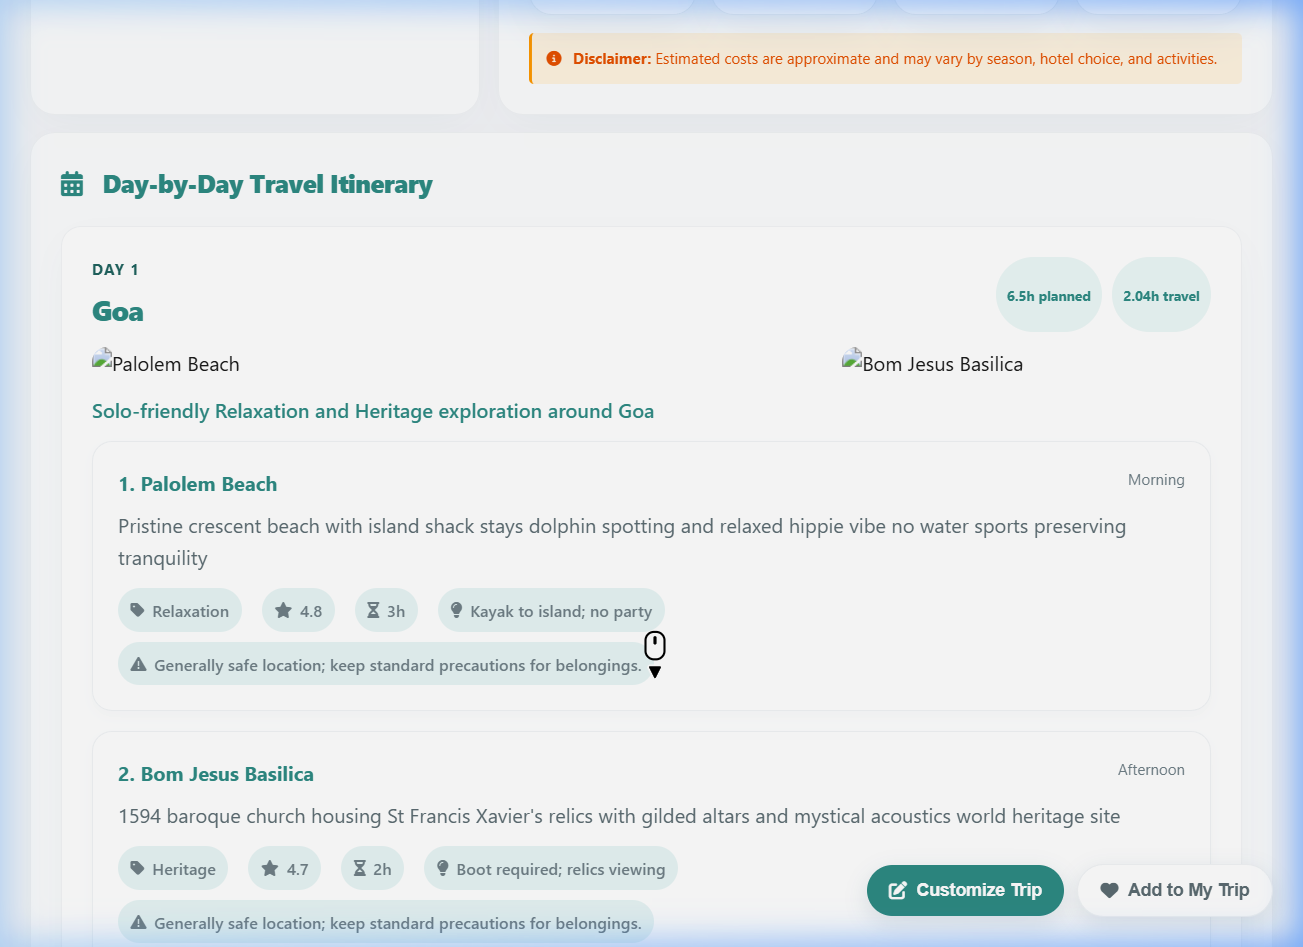
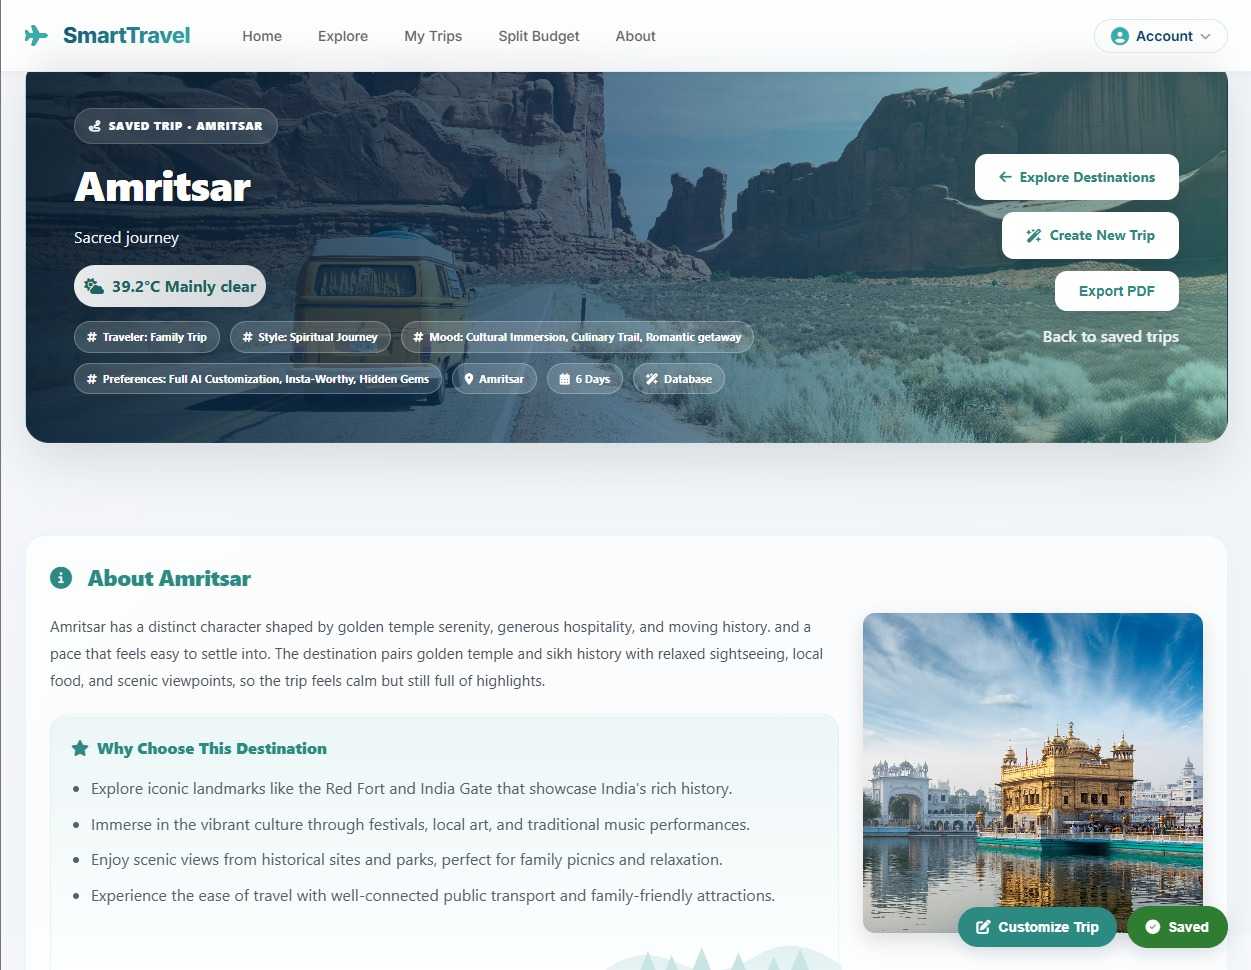
docs: finalize README.md structure matching 9 requested sections and add live itinerary screenshot

diff --git a/README.md b/README.md
@@ -10,7 +10,48 @@ SmartTravel is a full-stack, AI-powered travel planning web application built sp
 
 ---
 
-## Application Interface Screenshots
+## Project Overview
+
+SmartTravel is designed to simplify the complex process of planning multi-day trips. By combining a curated offline dataset of Indian tourist attractions with real-time generative language models, the application constructs personalized itineraries customized to user budget comfort levels, timeline constraints, travel styles, and mood preferences. 
+
+The application architecture prioritizes reliability by utilizing a local database fallback engine that dynamically clusters nearby locations using geocoordinates if external services time out or are unconfigured. The platform also offers secure session authentication and companion budget tools, resolving all core aspects of trip organization in a single dashboard.
+
+---
+
+## Features
+
+*   **Dual-Engine Travel Planner:** Generates multi-day travel plans using generative AI. If the external AI service is unavailable or key credentials are not provided, it seamlessly activates a deterministic, proximity-based fallback clustering algorithm that groups local destinations geographically.
+*   **Secure Session Authentication:** Stateful, secure cookie-based login (JSESSIONID) with BCrypt password hashing.
+*   **My Trips Dashboard:** Saves and manages customized itineraries dynamically tied to user profiles.
+*   **Companion Split-Expense Calculator:** Built-in companion budgeting system to record expenses and dynamically compute split shares.
+*   **Live Weather & Destination Insights:** Integrated weather profiles, photography spots, local tips, and nearest connectivity nodes (airports, railways).
+*   **Interactive Maps Integration:** Renders map locations using destination coordinates.
+
+---
+
+## Tech Stack
+
+| Component | Technology | Description |
+|---|---|---|
+| **Frontend** | Vanilla HTML5 / CSS3 / ES6 JavaScript | Responsive user interface utilizing custom design tokens, CSS grids, and smooth micro-animations. |
+| **Backend** | Spring Boot 3.x, Java 17 | REST controller mappings, JPA transactions, security authorization filters, and core planner pipelines. |
+| **Database** | MySQL 8+ / Hibernate JPA | Transactional schemas for profiles, budget sheets, expense logs, and places. |
+| **AI Integration** | OpenRouter API / OkHttp client | Prompt engineering templates connecting to gpt-4o-mini for structured itinerary outputs. |
+| **Data Processing** | Python, Commons CSV | Importer loaders to parse and seed dataset values into database schemas. |
+
+---
+
+## Architecture
+
+SmartTravel follows a standard 3-Tier Architecture that enforces clean separation of concerns between client views, logical controllers/services, and databases.
+
+### 3-Tier System Architecture Flow
+Defines the connection paths between client presentation layer, Spring Boot logic layer, MySQL storage, and external OpenRouter API:
+![System Architecture Flow](docs/diagrams/svg/system_architecture.svg)
+
+---
+
+## Screenshots
 
 ### Homepage Dashboard
 Defines the landing dashboard where travelers can register, authenticate, and explore custom recommendations.
@@ -30,18 +71,7 @@ Displays the detailed daily schedule containing curated spots, tips, duration su
 
 ---
 
-## Key Features
-
-*   **Dual-Engine Travel Planner:** Generates multi-day travel plans using generative AI. If the external AI service is unavailable or key credentials are not provided, it seamlessly activates a deterministic, proximity-based fallback clustering algorithm that groups local destinations geographically.
-*   **Secure Session Authentication:** Stateful, secure cookie-based login (JSESSIONID) with BCrypt password hashing.
-*   **My Trips Dashboard:** Saves and manages customized itineraries dynamically tied to user profiles.
-*   **Companion Split-Expense Calculator:** Built-in companion budgeting system to record expenses and dynamically compute split shares.
-*   **Live Weather & Destination Insights:** Integrated weather profiles, photography spots, local tips, and nearest connectivity nodes (airports, railways).
-*   **Interactive Maps Integration:** Renders map locations using destination coordinates.
-
----
-
-## Project Directory Tree
+## Project Structure
 
 Below is the repository directory structure showing the organization of both frontend, backend, dataset seeding tools, and system documentation:
 
@@ -67,98 +97,70 @@ SmartTravel/
 
 ---
 
-## System Architecture
+## Setup Instructions
 
-SmartTravel follows a standard 3-Tier Architecture that enforces clean separation of concerns between client views, logical controllers/services, and databases.
+### 1. Configure MySQL Schema
+Start the local MySQL database instance, open your SQL client, and create the schema:
+```sql
+CREATE DATABASE smart_travel CHARACTER SET utf8mb4 COLLATE utf8mb4_unicode_ci;
+```
 
-### 3-Tier System Architecture Flow
-Defines the connection paths between client presentation layer, Spring Boot logic layer, MySQL storage, and external OpenRouter API:
-![System Architecture Flow](docs/diagrams/svg/system_architecture.svg)
-
----
-
-## Visual Workflows and System Specifications
-
-All diagram models are pre-rendered in clean default themes and placed directly under docs/diagrams/svg/ to document system operations:
-
-### SRS Use Case Model
-Represents the Traveler actor interaction options and access parameters inside the platform:
-![SRS Use Case Model](docs/diagrams/svg/use_case.svg)
-
-### Itinerary Planning Workflow
-Outlines the logic from user preferences selection down to RAG database candidate retrieval and AI generation fallback:
-![Itinerary Planning Activity Flow](docs/diagrams/svg/activity.svg)
-
-### Session Authentication Sequence
-Details the stateful credentials verification loop and session cookie validation checks:
-![Session Authentication Sequence](docs/diagrams/svg/authentication_flow.svg)
-
-### RAG Itinerary Call Flow
-Details the client REST query, database filter steps, OpenRouter RAG context enrichment, and payload return sequence:
-![RAG Itinerary Sequence](docs/diagrams/svg/api_flow.svg)
-
-### Core JPA Entity Class Model
-Specifies database entities mappings, variables attributes, collection elements mapping, and relationships:
-![Core JPA Entity Class Model](docs/diagrams/svg/class_diagram.svg)
-
----
-
-## Technology Stack
-
-| Component | Technology | Description |
-|---|---|---|
-| **Frontend** | Vanilla HTML5 / CSS3 / ES6 Javascript | Clean, modern user interface utilizing HSL tailored colors, responsive CSS grids, and smooth micro-animations. |
-| **Backend** | Spring Boot 3.x, Java 17 | Core web controllers, REST APIs, JPA mapping, and service layers. |
-| **Database** | MySQL 8+ / Hibernate JPA | Relational tables mapping places, user sessions, saved trips, and group budgets. |
-| **AI Integration** | OpenRouter API / OkHttp client | Integrates with generative models (e.g. gpt-4o-mini) using structured JSON templates. |
-| **Data Processing** | Python, Commons CSV | Pre-processing scripts and loader tools to ingest dataset profiles. |
-
----
-
-## Quick Start Guide
-
-### 1. Prerequisites
-*   Java Development Kit (JDK) 17 or higher
-*   Maven 3.x (or use the included wrapper ./mvnw)
-*   MySQL Server 8.x
-*   Python 3.x (for database seeding)
-
-### 2. Configure Database & Environment
-1.  Log into your MySQL terminal and create the schema:
-    ```sql
-    CREATE DATABASE smart_travel;
-    ```
-2.  Copy the example environment file and fill in your values:
-    ```bash
-    cp .env.example .env
-    ```
-    Configure the following keys:
-    ```env
-    OPENROUTER_API_KEY=your_api_key
-    MYSQL_DATABASE=smart_travel
-    MYSQL_USERNAME=root
-    MYSQL_PASSWORD=your_password
-    ```
-
-### 3. Seed the Database
-Run the Python CSV importer script to populate the local destinations database with the curated Indian dataset containing tourist places:
+### 2. Configure Environment Variables
+Copy the example environment template file to create your active `.env` config file:
 ```bash
+cp .env.example .env
+```
+Fill in the parameters as detailed in the Environment Variables section below.
+
+### 3. Ingest Destinations Dataset
+Execute the CSV importer script to populate the local attractions tables:
+```bash
+# Ingest using Python
 python scripts/import_csv.py
 ```
-
-### 4. Build and Run the Backend Server
-Navigate into the Backend/ directory and spin up the spring-boot server:
-```powershell
+Alternatively, execute the database loader from the backend directory using Maven:
+```bash
 cd Backend
-.\mvnw.cmd clean spring-boot:run
+./mvnw.cmd exec:java -Dexec.mainClass="com.riya.smarttravel.util.CsvImportTool"
 ```
-The server will boot up and bind to port 9090.
 
-### 5. Access the Platform
-Open your browser and navigate to:
+### 4. Build and Launch Server
+Run the Maven wrapper task to compile classes, run validation tests, and bootstrap Tomcat:
+```bash
+cd Backend
+./mvnw.cmd clean spring-boot:run
+```
+The server binds to local port `9090`.
+
+### 5. Open Application
+Navigate your browser to the local URL:
 ```text
 http://localhost:9090/
 ```
+
+---
+
+## Environment Variables
+
+Configure the following variables in your `.env` file at the root of the project:
+
+*   **`DB_URL`** (Default: `jdbc:mysql://localhost:3306/smart_travel`): The JDBC MySQL connection string.
+*   **`DB_USERNAME`** (Default: `root`): Database authentication username.
+*   **`DB_PASSWORD`** (Default: `root`): Database authentication password.
+*   **`APP_CORS_ALLOWED_ORIGINS`**: Comma-separated list of origins permitted to call REST APIs.
+*   **`OPENROUTER_API_KEY`**: API credential key for the OpenRouter model.
+*   **`PLANNER_AI_MODEL`** (Default: `openai/gpt-4o-mini`): Generative AI model selection ID.
+*   **`PLANNER_AI_ENABLED`** (Default: `true`): Feature toggle to enable/disable generative AI planning.
+*   **`APP_FRONTEND_PATH`** (Default: `file:///d:/travel-planner/Frontend/`): Root file path mapping pointing to static frontend assets.
+
+---
+
+## Future Improvements
+
+*   **Distributed Cache Configuration:** Replace in-memory caching blocks with a centralized cache store like Redis to persist weather details and geocoding responses.
+*   **Stateless Authentication Protocols:** Migrate stateful Servlet session cookies (`HttpSession`) to stateless authorization protocols using JSON Web Tokens (JWT) for microservice scaling.
+*   **Asynchronous Processing Pipeline:** Refactor geocoding and weather REST requests to run on asynchronous, non-blocking HTTP threads.
+*   **Trip Collaboration Channels:** Extend budget calculators and itinerary modules to support real-time collaboration rooms for travel companion groups.
 
 ---
 
